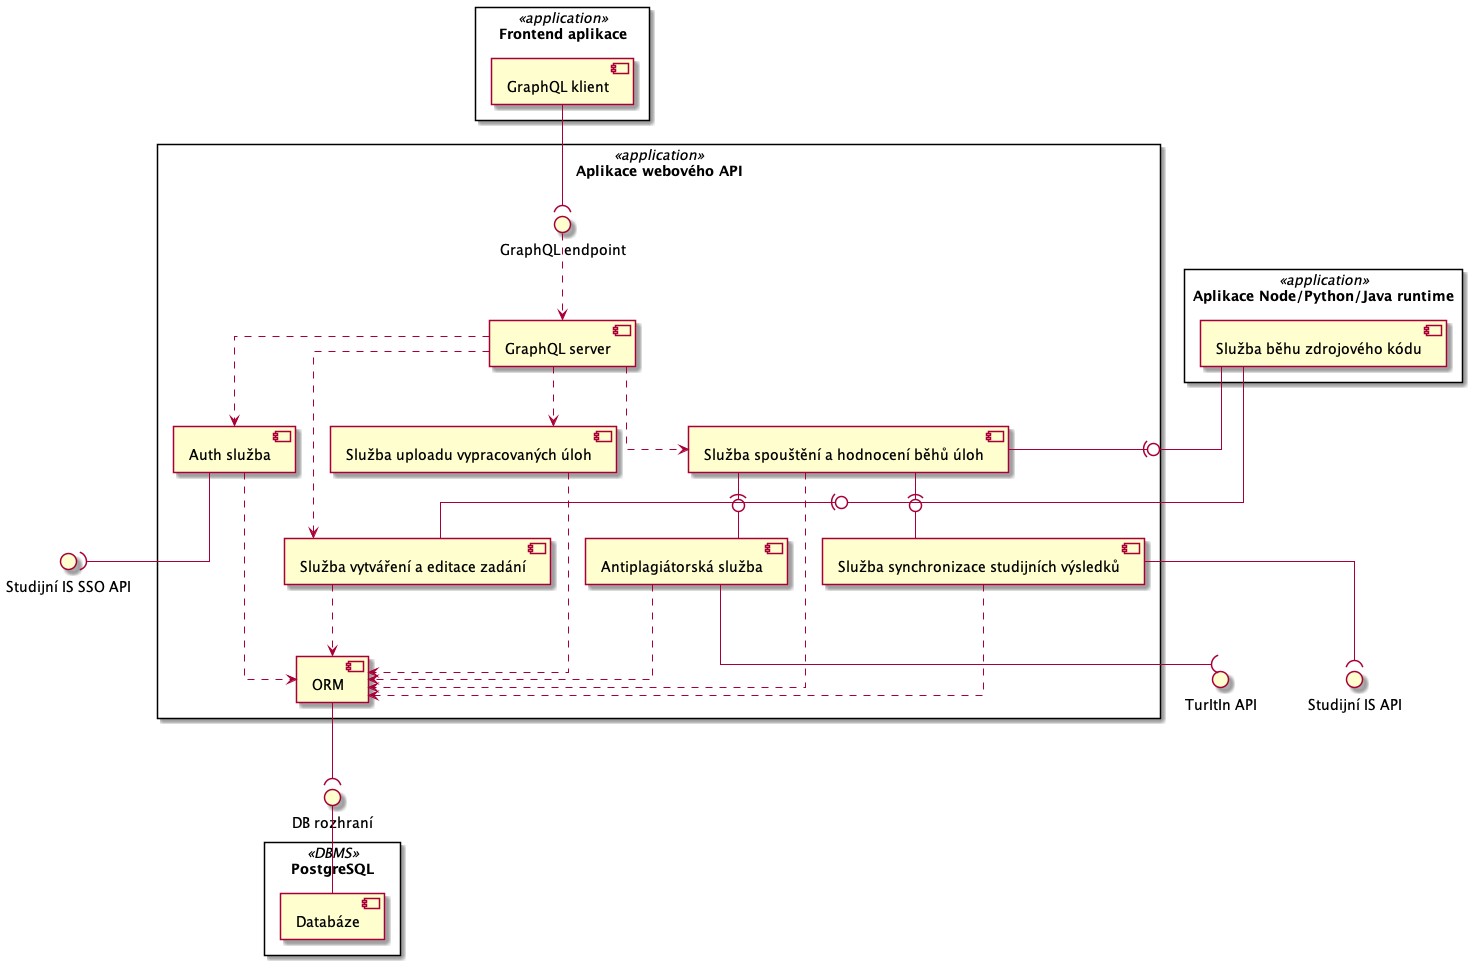
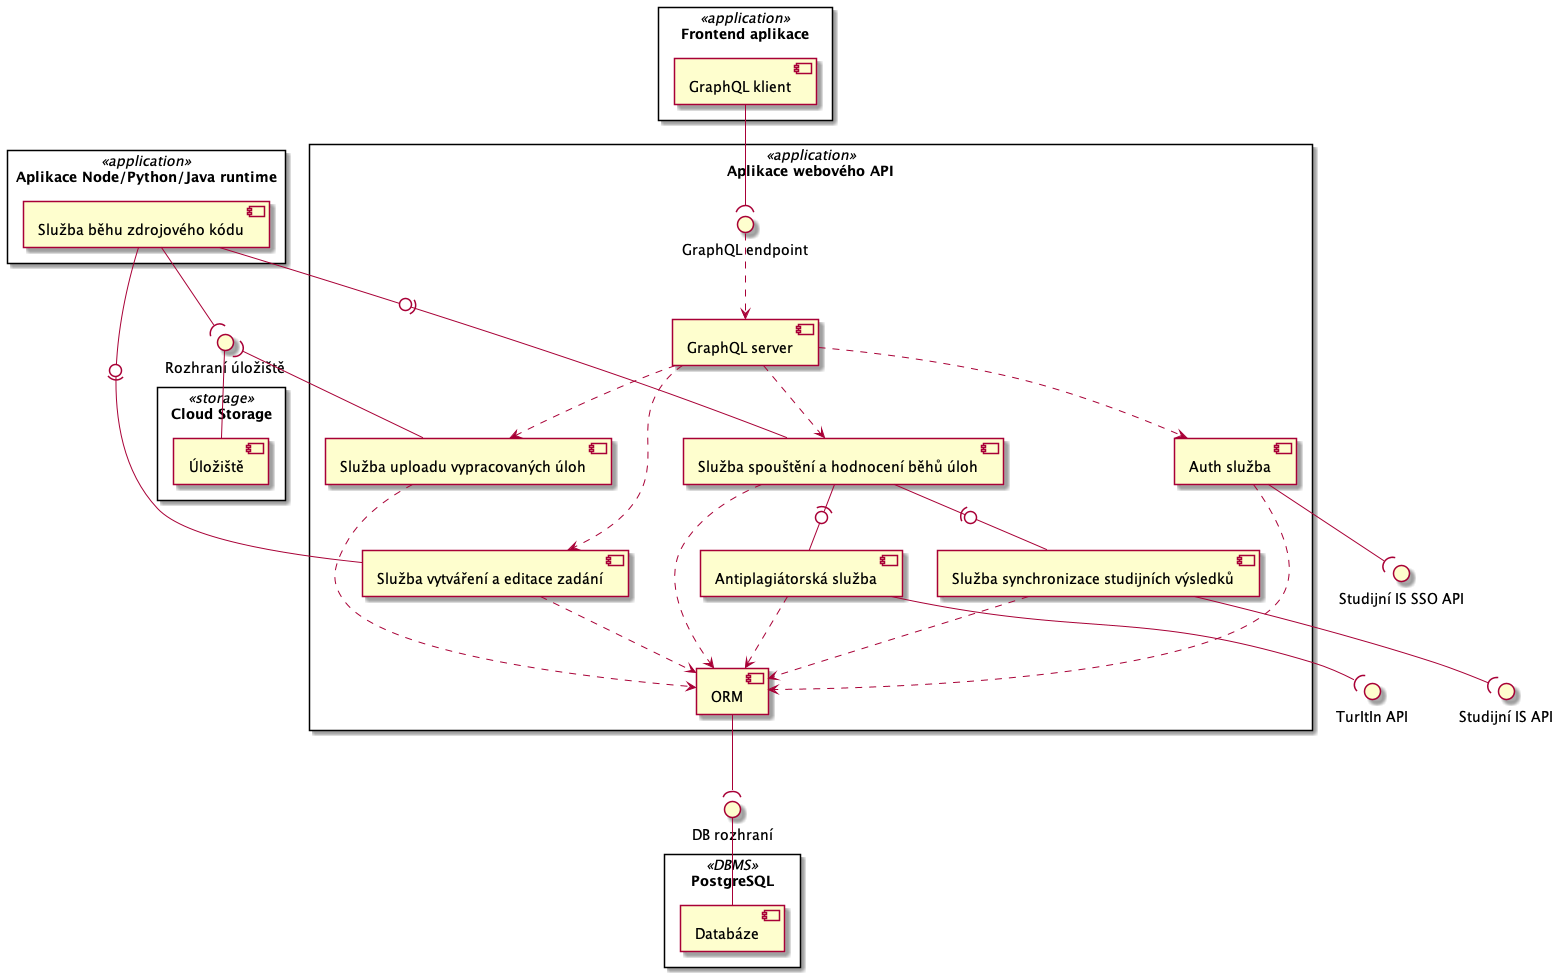
Add SOA components diagram description.

diff --git a/architektura1_SOA/komponenty.md b/architektura1_SOA/komponenty.md
@@ -3,3 +3,47 @@
 ## UML diagram komponent
 
 ![Components diagram](/assets/diagrams/out/soa/components/components.png)
+
+## Katalog elementů
+
+### Aplikace webového API
+
+Node.js aplikace webového serveru, která se stará o provoz GraphQL serveru pro komunikaci s frontendovou React aplikací. Obsahuje veškerou business logiku systému pro automatické hodnocení studentských programovacích úloh.
+
+- **GraphQL server** – služba, která poskytuje _GraphQL endpoint_, jakožto rozhraní pro komunikaci s frontendovou aplikací.
+
+- **Auth služba** – stará se o autentizaci a autorizaci uživatelů. Data o uživatelích získává ze _single sign-on API Studijního IS univerzity_.
+
+- **Služba uploadu vypracovaných úloh** – slouží pro nahrávání vypracovaných úloh studenty (a správných řešení vyučujícími). Tyto úlohy jsou následně uloženy do úložiště a metadata zaznamenány v databázi.
+
+- **Služba spouštění a běhu úloh** – stará se o obsluhu služeb běhu zdrojového kódu. Dále má na starosti vyhodnocení jednotlivých běhů na základě stanovených kritérií. Hodnocení předává službě synchronizace studijních výsledků. Také se dotazuje antiplagiátorské služby, zda se studenti nedopustili nějakých nekalých praktik. Veškeré údaje o jednotlivých bězích ukládá do databáze.
+
+- **Služba vytváření a editace zadání** – slouží vyučujícím k vytváření a úpravám zadání úloh.
+
+- **Antiplagiátorská služba** - komunikuje s _TurnItIn API_, kde zjišťuje, zda nedošlo k plagiátorství.
+
+- **Služba synchronizace studijních výsledků** - synchronizuje výsledky běhů s _API studijního IS_
+
+### Frontend aplikace
+
+Single-page aplikace vytvořená pomocí JS knihovny React, která komunikuje s webovým API pomocí dotazovacího jazyka GraphQL.
+
+- **GraphQL klient** – služba, která se stará o komunikaci s GraphQL serverem.
+
+### Aplikace Node/Python/Java runtime
+
+Aplikace, které se starají o exekuci a vyhodnocení studentských programovacích úloh.
+
+- **Služba běhu zdrojového kódu** – slouží k běhu studentských úloh. Zdrojové kódy jsou získány z úložiště.
+
+### PostgreSQL
+
+- **Databáze**.
+
+### Cloud Storage
+
+- **Úložiště nahraných úloh**.
+
+## Kód diagramu
+
+PlantUML kód je k dispozici [zde](/assets/diagrams/src/soa/components.puml).

diff --git a/architektura1_SOA/nasazeni.md b/architektura1_SOA/nasazeni.md
@@ -60,4 +60,4 @@ Single-page aplikace vytvořená pomocí JS knihovny React, která komunikuje s 
 
 ## Kód diagramu
 
-PlantUML kód je k dispozici [zde](/assets/diagrams/src/soa/deployment.pu).
+PlantUML kód je k dispozici [zde](/assets/diagrams/src/soa/deployment.puml).

diff --git a/architektura1_SOA/balicky.md b/architektura1_SOA/balicky.md
@@ -3,3 +3,9 @@
 ## UML diagram balíčků
 
 ![Packages diagram](/assets/diagrams/out/soa/packages/packages.png)
+
+## Katalog elementů
+
+## Kód diagramu
+
+PlantUML kód je k dispozici [zde](/assets/diagrams/src/soa/packages.puml).
